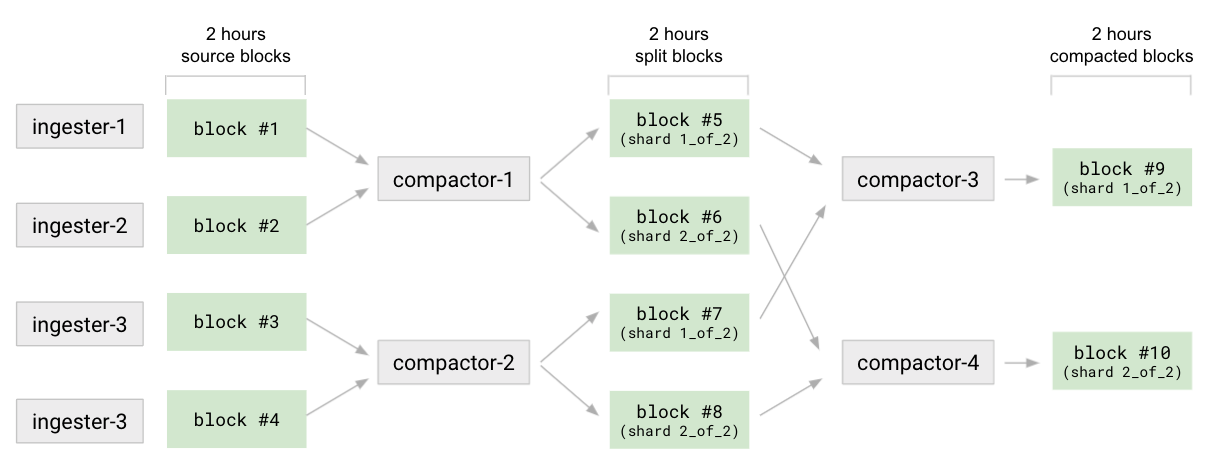
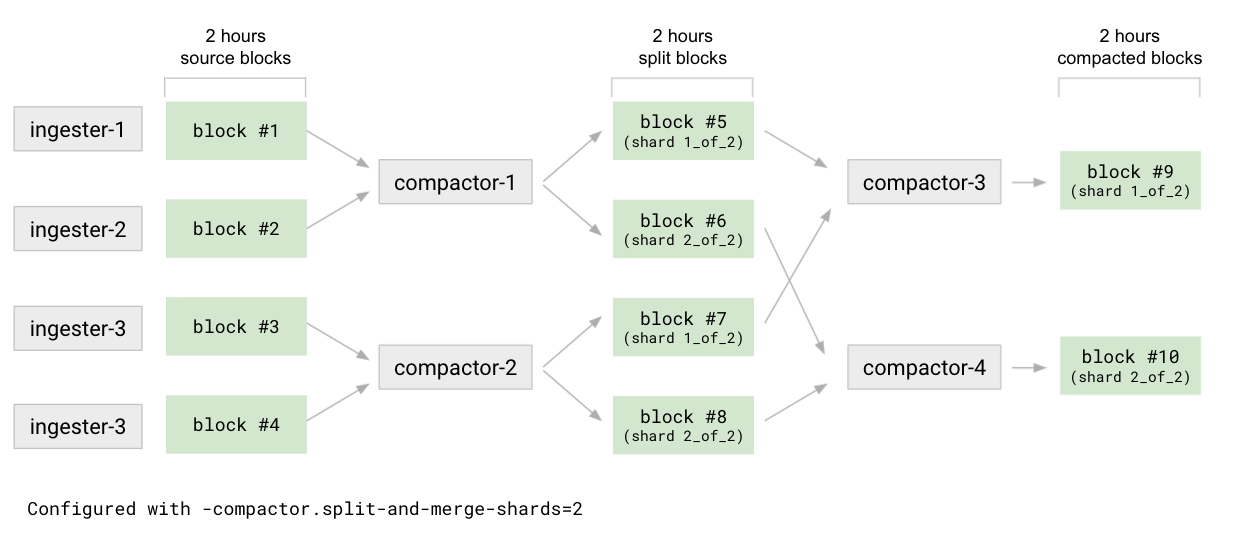
Update doc

diff --git a/docs/blocks-storage/compactor.md b/docs/blocks-storage/compactor.md
@@ -31,7 +31,7 @@ The **horizontal compaction** triggers after the vertical compaction and compact
 
 ## Compaction strategy
 
-The compactor supports two compaction strategies, configurable via `-compactor.compaction-strategy` flag (or its respective YAML config option):
+The compactor supports two compaction strategies, configurable via the `-compactor.compaction-strategy` flag (or its respective YAML config option):
 
 - `default`
 - `split-and-merge`
@@ -44,11 +44,18 @@ This strategy is suited for clusters with small tenants.
 
 ### `split-and-merge` compaction strategy
 
-The `split-and-merge` compaction strategy is a more sophisticated compaction strategy that allow to both vertically and horizontally scale compaction of a single tenant. This strategy is designed to overcome TSDB index limitations and avoid that compacted blocks can grow indefinitely for a very large tenant (at any compaction stage).
+The `split-and-merge` compaction strategy is a more sophisticated compaction strategy that allows to both vertically and horizontally scale compaction of a single tenant:
 
-The `split-and-merge` compaction strategy is a two stage process: split and merge.
+- **Vertical scaling**<br />
+  The setting `-compactor.compaction-concurrency` allows you to configure max number of concurrent compactions running in a single compactor replica (each compaction uses 1 CPU core).
+- **Horizontal scaling**<br />
+  When [sharding](#compactor-sharding) is enabled and you run multiple compactor replicas, compaction jobs will be sharded across the available replicas.
 
-For the configured 1st level of compaction (eg. 2h), the compactor divides all source blocks into N groups. For each group, the compactor compacts together the blocks but, instead of returning 1 compacted block (as with the `default` strategy), it outputs N blocks, called **split** blocks. Each split block contains a subset of the series. Series are sharded across the N split blocks using a stable hashmod function. At the end of the split stage, the compactor will have produced `N * N` blocks with a reference to their shard in the block's `meta.json`.
+The `split-and-merge` is designed to overcome TSDB index limitations and avoid that compacted blocks can grow indefinitely for a very large tenant (at any compaction stage).
+
+This compaction strategy is a two stage process: split and merge.
+
+For the configured 1st level of compaction (eg. 2h), the compactor divides all source blocks into N groups. For each group, the compactor compacts together the blocks, but instead of returning 1 compacted block (as with the `default` strategy), it outputs N blocks, called **split** blocks. Each split block contains a subset of the series. Series are sharded across the N split blocks using a stable hashmod function. At the end of the split stage, the compactor will have produced `N * N` blocks with a reference to their shard in the block's `meta.json`.
 
 Given the split blocks, the compactor runs the **merge** stage which compacts together all split blocks of a given shard. Once this stage is completed, the number of blocks will be reduced by a factor of `N`. Given a compaction time range, we'll have a compacted block for each shard.
 
@@ -58,9 +65,13 @@ The merge stage is then run for subsequent compaction time ranges (eg. 12h, 24h)
 
 <!-- Diagram source at https://docs.google.com/presentation/d/1bHp8_zcoWCYoNU2AhO2lSagQyuIrghkCncViSqn14cU/edit -->
 
-This strategy is suited for clusters with large tenants. The `N` number of split blocks is configurable on a per-tenant basis (`-compactor.split-and-merge-shards`) and can be adjusted based on the number of series of each tenant. The more a tenant grows in term of series, the more you can grow the configured number of shards, in order to improve compaction parallelization and keep each per-shard compacted block size under control.
+This strategy is suited for clusters with large tenants. The `N` number of split blocks is configurable on a per-tenant basis (`-compactor.split-and-merge-shards`) and can be adjusted based on the number of series of each tenant. The more a tenant grows in terms of series, the more you can grow the configured number of shards, in order to improve compaction parallelization and keep each per-shard compacted block size under control.
 
-When sharding is enabled, each compaction job (both split and merge) planned by the compactor can be horizontally scaled. Non conflicting / overlapping jobs will be parallelly executed.
+When sharding is enabled, each compaction stage (both split and merge) planned by the compactor can be horizontally scaled. Non conflicting / overlapping jobs will be executed in parallel.
+
+#### How does it behaves if `-compactor.split-and-merge-shards` changes?
+
+In case you change the `-compactor.split-and-merge-shards` setting, the change will affect only compaction of blocks which haven't been split yet. Blocks which have already run through the split stage will not be split again to produce a number of shards equal to the new setting, but will be merged keeping the old configuration (this information is stored in the `meta.json` of each split block).
 
 ## Compactor sharding
 
@@ -73,7 +84,7 @@ The actual sharding depends on the compaction stategy used:
 - **`default`**<br />
   The compactor shard compaction workload by tenant. All the blocks of a tenant are processed by a single compactor instance at any given time, but compaction for different tenants may simultaneously run on different compactor instances.
 - **`split-and-merge`**<br />
-  The compactor shard compaction jobs, either from a single or multiple tenants. Contrary to the `default` strategy, compaction of a single tenant can be split and processed by multiple compactor instances.
+  The compactor shards compaction jobs, either from a single or multiple tenants. Contrary to the `default` strategy, compaction of a single tenant can be split and processed by multiple compactor instances.
 
 Whenever the pool of compactors increase or decrease (ie. following up a scale up/down), tenants / jobs are resharded across the available compactor instances without any manual intervention.
 
